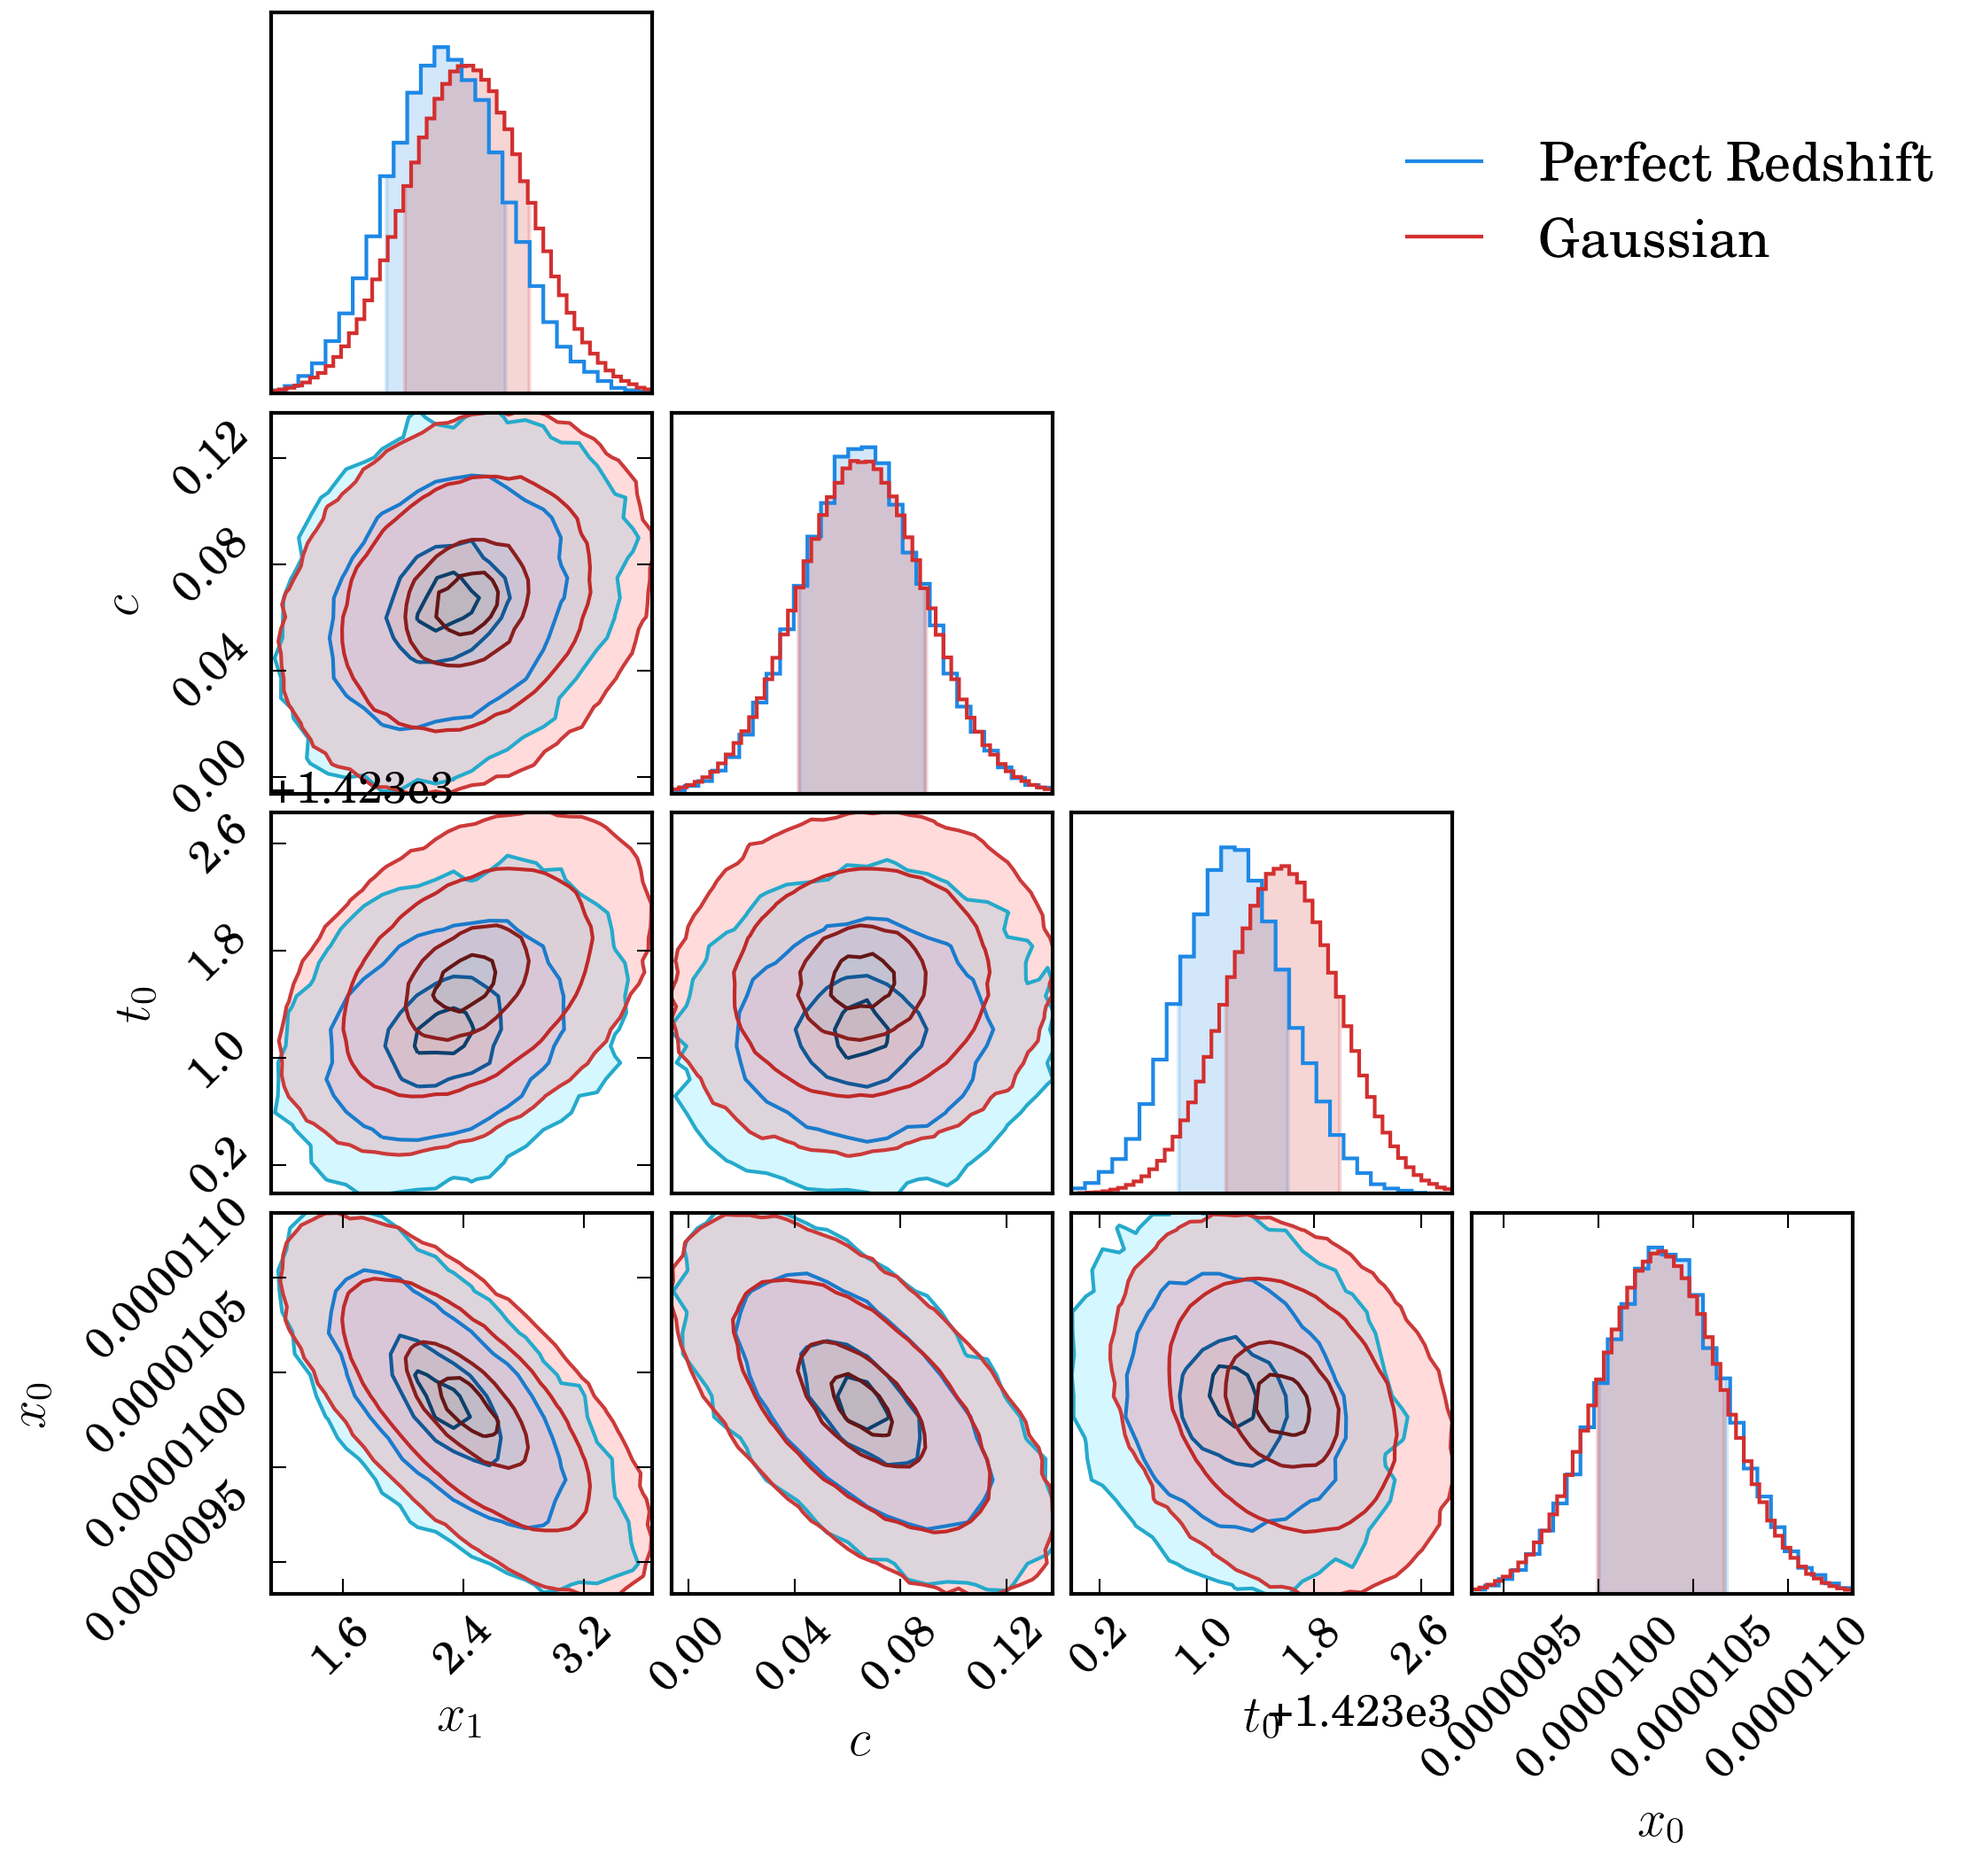
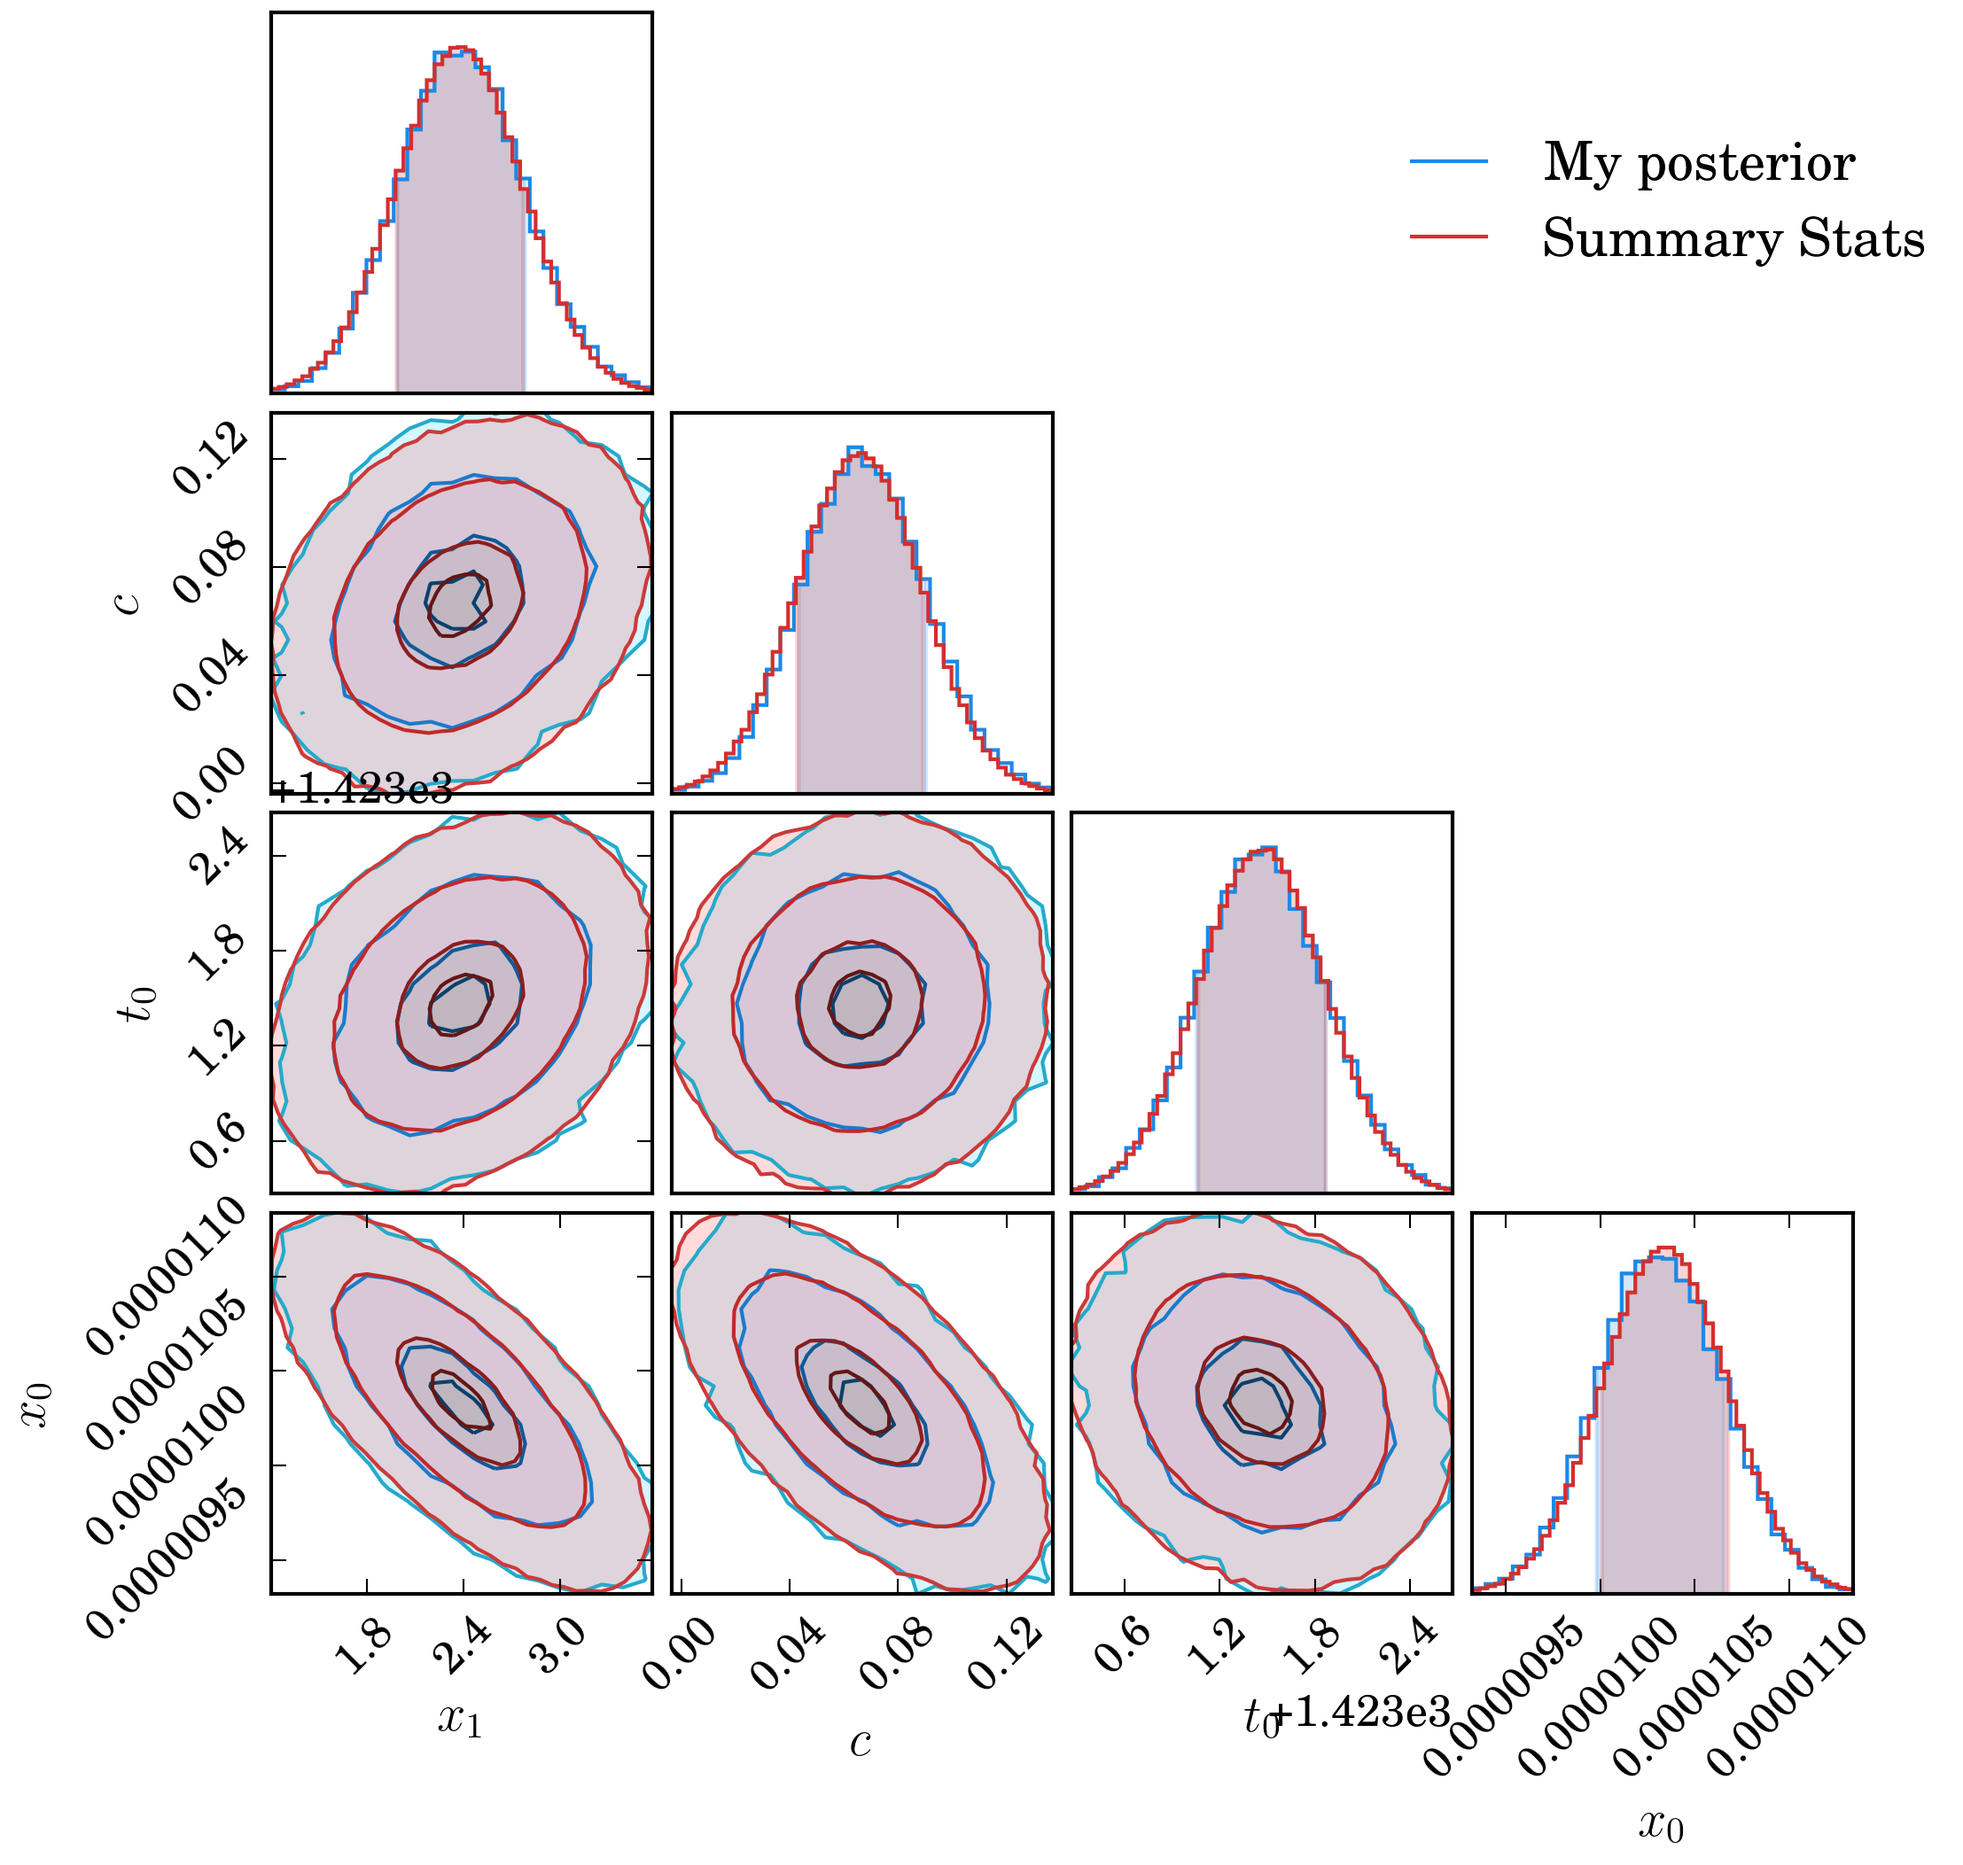
Updating simple

diff --git a/dessn/investigations/gaussianity/ston_and_redshift.py b/dessn/investigations/gaussianity/ston_and_redshift.py
@@ -58,16 +58,18 @@ def get_gaussian_fit(z, t0, x0, x1, c, lc, seed, temp_dir, interped, type="iminu
         res, fitted_model = sncosmo.fit_lc(lc, model, ['t0', 'x0', 'x1', 'c'],
                                            guess_amplitude=False, guess_t0=False)
         chain = np.random.multivariate_normal(res.parameters[1:], res.covariance, size=int(1e5))
-
+        weights = None
     elif type == "mcmc":
         res, fitted_model = sncosmo.mcmc_lc(lc, model, ['t0', 'x0', 'x1', 'c'], nburn=500, nwalkers=20,
                                             nsamples=2000, guess_amplitude=False, guess_t0=False)
         chain = res.samples
+        weights = None
     else:
         bounds = {"t0": [980, 1020], "x0": [0.5e-5, 1.5e-5], "x1": [-10, 10], "c": [-2, 2]}
         res, fitted_model = sncosmo.nest_lc(lc, model, ['t0', 'x0', 'x1', 'c'], bounds, npoints=1000,
                                             guess_amplitude=False, guess_t0=False)
         chain = res.samples
+        weights = res.weights
 
     # fig = sncosmo.plot_lc(lc, model=[fitted_model, correct_model], errors=res.errors)
     # fig.savefig(temp_dir + os.sep + "lc_%d.png" % seed, bbox_inches="tight", dpi=300)
@@ -75,7 +77,7 @@ def get_gaussian_fit(z, t0, x0, x1, c, lc, seed, temp_dir, interped, type="iminu
     parameters = [map[a] for a in res.vparam_names]
 
     chain, parameters = add_mu_to_chain(interped, chain, parameters)
-    return chain, parameters, res.parameters[1:], res.covariance
+    return chain, parameters, weights, res.parameters[1:], res.covariance
 
 
 def get_posterior(z, t0, lc, seed, temp_dir, interped):
@@ -113,10 +115,10 @@ def add_mu_to_chain(interped, chain, parameters):
     return chain, parameters + [r"$\mu$"]
 
 
-def plot_results(chain, param, chainf, paramf, t0, x0, x1, c, temp_dir, seed, interped):
+def plot_results(chain, param, chainf, paramf, w, t0, x0, x1, c, temp_dir, seed, interped):
     cc = ChainConsumer()
     cc.add_chain(chain, parameters=param, name="Posterior")
-    cc.add_chain(chainf, parameters=paramf, name="Gaussian")
+    cc.add_chain(chainf, parameters=paramf, name="Gaussian", weights=w)
     truth = {"$t_0$": t0, "$x_0$": x0, "$x_1$": x1, "$c$": c, r"$\mu$": get_mu(interped, x0, x1, c)}
     cc.plot(filename=temp_dir + "/surfaces_%d.png" % seed, truth=truth)
 
@@ -151,10 +153,11 @@ def get_result(temp_dir, seed, method="iminuit"):
             return None
 
         try:
-            chainf, parametersf, means, cov = get_gaussian_fit(z, t0, x0, x1, c, lc, seed,
+            chainf, parametersf, weights, means, cov = get_gaussian_fit(z, t0, x0, x1, c, lc, seed,
                                                                temp_dir, interp, type=method)
             if method in ["iminuit"]:
                 chain, parameters = get_posterior(z, t0, lc, seed, temp_dir, interp)
+                weights = None
             else:
                 chain = chainf
                 parameters = parametersf
@@ -169,7 +172,7 @@ def get_result(temp_dir, seed, method="iminuit"):
             np.save(save_file, np.array([]))
             return None
 
-        # plot_results(chain, parameters, chainf, parametersf, t0, x0, x1, c, temp_dir, seed, interp)
+        plot_results(chain, parameters, chainf, parametersf, weights, t0, x0, x1, c, temp_dir, seed, interp)
 
         muf = chainf[:, -1]
         mu = chain[:, -1]
@@ -180,8 +183,8 @@ def get_result(temp_dir, seed, method="iminuit"):
         chain2, _ = add_mu_to_chain(interp, chain2, parameters[:-1])
         mu2 = chain2[:, -1]
 
-        diffmu = np.mean(muf) - np.mean(mu)
-        diffmu2 = np.mean(mu2) - np.mean(mu)
+        diffmu = np.average(muf) - np.average(mu, weights=weights)
+        diffmu2 = np.average(mu2) - np.average(mu, weights=weights)
         diffstd = np.std(muf) / np.std(mu)
         diffstd2 = np.std(mu2) / np.std(mu)
         res = np.array([z, t0, x0, x1, c, ston, diffmu, diffstd, diffmu2, diffstd2])

diff --git a/dessn/investigations/gaussianity/simple.py b/dessn/investigations/gaussianity/simple.py
@@ -33,7 +33,7 @@ if __name__ == "__main__":
                  'zp': zp,
                  'zpsys': zpsys})
 
-    model = sncosmo.Model(source='salt2')
+    model = sncosmo.Model(source='salt2-extended')
     p = {'z': z, 't0': t0, 'x0': x0, 'x1': x1, 'c': colour}
     model.set(z=z)
     lcs = sncosmo.realize_lcs(obs, model, [p])
@@ -43,12 +43,23 @@ if __name__ == "__main__":
     temp_dir = dir_name + os.sep + "output"
     surface = temp_dir + os.sep + "surfaces_simple.png"
     mu_simple = temp_dir + os.sep + "mu_simple.png"
+    mcmc_chain = temp_dir + os.sep + "mcmc_simple.npy"
     c = ChainConsumer()
-    my_model = PerfectRedshift(lcs, [z], t0)
+    my_model = PerfectRedshift(lcs, [z], t0, name="My posterior")
     sampler = EnsembleSampler(temp_dir=temp_dir, num_steps=10000)
     my_model.fit(sampler, chain_consumer=c)
     c.add_chain(np.random.multivariate_normal(res.parameters[1:], res.covariance, size=int(1e6)),
-                     name="Gaussian", parameters=["$t_0$", "$x_0$", "$x_1$", "$c$"])
+                name="Summary Stats", parameters=["$t_0$", "$x_0$", "$x_1$", "$c$"])
+
+    if False:
+        if not os.path.exists(mcmc_chain):
+            res2, fitted_model2 = sncosmo.mcmc_lc(lcs[0], model, ['t0', 'x0', 'x1', 'c'], nwalkers=20,
+                                                  nburn=500, nsamples=4000)
+            mcchain = res2.samples
+            np.save(mcmc_chain, mcchain)
+        else:
+            mcchain = np.load(mcmc_chain)
+        c.add_chain(mcchain, name="sncosmo mcmc", parameters=["$t_0$", "$x_0$", "$x_1$", "$c$"])
 
     c.configure_contour(contourf=True, contourf_alpha=0.2, sigmas=[0.0, 0.5, 1.0, 2.0, 3.0])
     c.configure_bar(shade=True)
@@ -77,5 +88,5 @@ if __name__ == "__main__":
 
     actual = apparent_interp(x1, colour, grid=False) - (0.4 * np.log10(x0 / 1e-5))
     actual += alpha * x1 - beta * colour
-    c2.plot(filename=mu_simple, figsize=(5, 3), truth=[actual], legend=False)
+    c2.plot(filename=mu_simple, figsize=(7, 4), truth=[actual], legend=True)
 

diff --git a/dessn/investigations/gaussianity/__init__.py b/dessn/investigations/gaussianity/__init__.py
@@ -55,13 +55,13 @@ where :math:`m_B^*` is calculated using ``sncosmo``. Using this relationship, an
 the nuisance parameter :math:`M` to the other side, we can convert our multi-dimensional
 posterior surface into a single dimension, and then check for any biases in the mean and
 variance of the :math:`\mu+M` distribution. Doing this for the simple example above gives
-us the distributions shown below, which have :math:`\Delta (\mu+M) = 0.02`
-and :math:`\Delta (\sigma_{\mu+M}) = 0.004`.
+us the distributions shown below, which have :math:`\Delta (\mu+M) = 0.003`
+and :math:`\Delta (\sigma_{\mu+M}) = 0.0007`, a negligible difference for use in cosmology.
 
 
 .. figure::     ../dessn/investigations/gaussianity/output/mu_simple.png
     :align:     center
-    :width:     50%
+    :width:     70%
 
     The posterior surfaces from the previous figure transformed into distance modulus.
 
